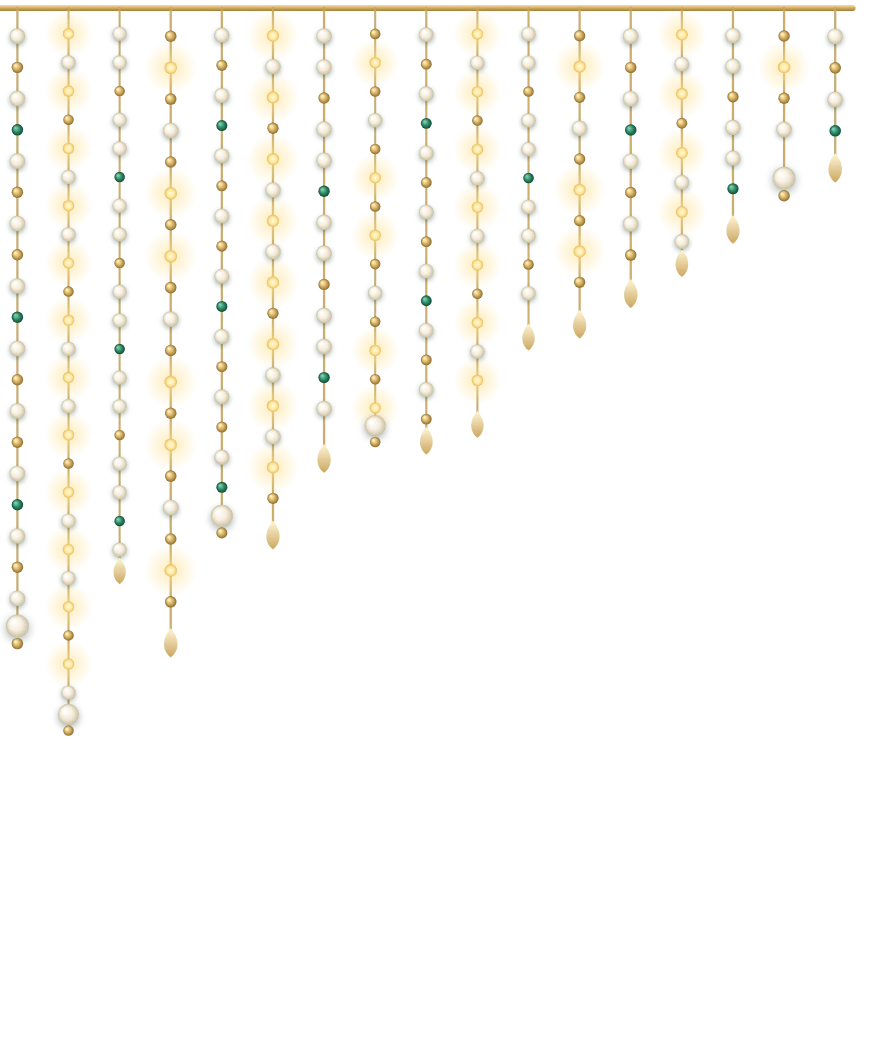
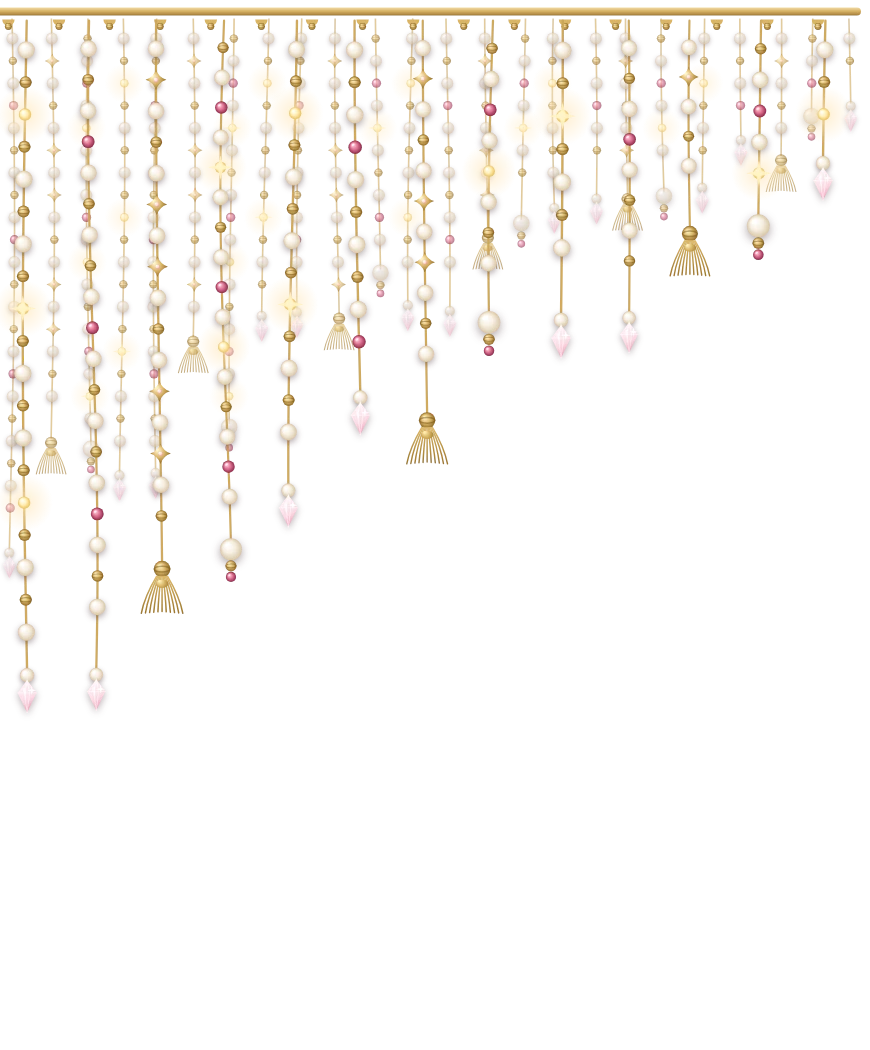
Areeba & Suleman: light pink and white theme
Claude-Session: https://claude.ai/code/session_014mE54nZZVFzgToMktFZNKW

Changed region(s): [[0.0, 0.0, 0.9931, 0.701]]

diff --git a/areeba-suleman/index.html b/areeba-suleman/index.html
@@ -3,7 +3,7 @@
 <head>
 <meta charset="utf-8">
 <meta name="viewport" content="width=device-width, initial-scale=1, viewport-fit=cover">
-<meta name="theme-color" content="#dbe7dd">
+<meta name="theme-color" content="#f8e8ee">
 <link rel="icon" href="favicon.svg" type="image/svg+xml">
 <link rel="apple-touch-icon" href="apple-touch-icon.png">
 <meta property="og:type" content="website">
@@ -23,18 +23,18 @@
   /* Layout: gate screen, then one long scrolling invitation with a floating bar, sections, RSVP and share. */
   :root{
     color-scheme:light;
-    --bg:#dbe7dd;          /* pearly satin */
-    --panel:#f5f9f4;       /* ivory */
-    --panel-2:#ebf2ea;
-    --ink:#0f3d2e;         /* deep maroon, as on the main card */
-    --muted:#4f7766;
-    --line:#c9d6c3;        /* gold-tinted hairlines */
+    --bg:#f8e8ee;          /* pearly satin */
+    --panel:#fffafc;       /* ivory */
+    --panel-2:#fbeef2;
+    --ink:#5d2038;         /* deep maroon, as on the main card */
+    --muted:#a0627a;
+    --line:#ecd2db;        /* gold-tinted hairlines */
     --gold:#b8924f;        /* gold lines and ornaments */
-    --maroon:#1d6a4f;      /* fills */
-    --maroon-hi:#2b8665;
-    --accent:#1b6b4d;      /* maroon accent text */
-    --ivory:#f4faf4;       /* text on maroon */
-    --shadow:rgba(15,60,45,.22);
+    --maroon:#c24e73;      /* fills */
+    --maroon-hi:#d9708f;
+    --accent:#b8456a;      /* maroon accent text */
+    --ivory:#fffafc;       /* text on maroon */
+    --shadow:rgba(120,40,70,.20);
     --serif:'Playfair Display',Georgia,serif;
     --sans:'Poppins',system-ui,sans-serif;
     --script:'Great Vibes','Snell Roundhand',cursive;
@@ -43,7 +43,7 @@
   [hidden]{display:none!important}
   html{scroll-behavior:smooth;-webkit-text-size-adjust:100%}
   body{
-    background:#d6e3d8 url(assets/silk.webp) center/cover fixed;
+    background:#f6e3e9 url(assets/silk.webp) center/cover fixed;
     color:var(--ink);font-family:var(--sans);font-weight:300;line-height:1.6;
     min-height:100vh;min-height:100svh;
     padding-left:env(safe-area-inset-left,0px);padding-right:env(safe-area-inset-right,0px);
@@ -65,7 +65,7 @@
   }
   .btn:hover{background:color-mix(in srgb,var(--maroon) 9%,transparent)}
   .btn:active{transform:scale(.98)}
-  .btn.primary{background:linear-gradient(135deg,#2b8665,var(--maroon));border-color:var(--maroon);color:var(--ivory)}
+  .btn.primary{background:linear-gradient(135deg,#d9708f,var(--maroon));border-color:var(--maroon);color:var(--ivory)}
   .btn.primary:hover{filter:brightness(1.12)}
   .btn.block{width:100%}
 
@@ -82,7 +82,7 @@
 
   .stage{
     position:fixed;inset:0;z-index:50;overflow:auto;display:flex;
-    background:#d6e3d8 url(assets/silk.webp) center/cover no-repeat;
+    background:#f6e3e9 url(assets/silk.webp) center/cover no-repeat;
     padding:max(24px,env(safe-area-inset-top)) max(14px,env(safe-area-inset-right)) max(24px,env(safe-area-inset-bottom)) max(14px,env(safe-area-inset-left));
   }
   .stage.leaving{animation:fade .45s ease forwards}
@@ -91,7 +91,7 @@
   .acts{display:none;gap:10px;flex-wrap:wrap;justify-content:center;width:100%}
   .stage.opening .acts{display:flex}
   .acts .btn.primary{color:var(--ivory)}
-  .acts .btn:not(.primary){background:rgba(245,249,244,.75)}
+  .acts .btn:not(.primary){background:rgba(255,250,252,.78)}
   .acts .btn{color:var(--ink);border-color:var(--gold);flex:1 1 150px;max-width:210px;font-size:.66rem;letter-spacing:.14em;padding:14px 10px;white-space:nowrap}
 
   .doors{position:absolute;inset:0;z-index:2;border:0;border-radius:0;overflow:visible;background:transparent;box-shadow:none}
@@ -99,13 +99,13 @@
   .door{
     position:fixed;top:0;bottom:0;width:50%;
     background:
-      repeating-linear-gradient(90deg,rgba(30,110,80,.12) 0,rgba(255,255,255,.2) 24px,rgba(30,110,80,.12) 48px),
-      linear-gradient(180deg,rgba(255,255,255,.30),rgba(255,255,255,0) 32%,rgba(15,74,54,.14)),
-      linear-gradient(90deg,#d9e8de,#c8dccf);
+      repeating-linear-gradient(90deg,rgba(194,78,115,.10) 0,rgba(255,255,255,.2) 24px,rgba(194,78,115,.10) 48px),
+      linear-gradient(180deg,rgba(255,255,255,.30),rgba(255,255,255,0) 32%,rgba(194,78,115,.12)),
+      linear-gradient(90deg,#fbeaf0,#f3d9e2);
     transition:transform 1.15s cubic-bezier(.65,0,.2,1) .15s;
   }
-  .door.l{left:0;transform-origin:0 50%;box-shadow:16px 0 46px rgba(15,60,45,.30)}
-  .door.r{right:0;transform-origin:100% 50%;box-shadow:-16px 0 46px rgba(15,60,45,.30)}
+  .door.l{left:0;transform-origin:0 50%;box-shadow:16px 0 46px rgba(120,40,70,.22)}
+  .door.r{right:0;transform-origin:100% 50%;box-shadow:-16px 0 46px rgba(120,40,70,.22)}
   .door-content{
     position:absolute;inset:0;z-index:3;display:flex;flex-direction:column;align-items:center;justify-content:center;
     padding:36px 30px;text-align:center;transition:opacity .3s;
@@ -124,7 +124,7 @@
   .stage.opened .doors{visibility:hidden}
 
     position:absolute;inset:0;z-index:1;display:flex;flex-direction:column;align-items:center;justify-content:center;text-align:center;
-    padding:40px 26px;border:1px solid var(--gold);background:linear-gradient(180deg,rgba(20,10,13,.94),rgba(8,5,6,.97));
+    padding:40px 26px;border:1px solid var(--gold);background:linear-gradient(180deg,rgba(255,250,252,.94),rgba(8,5,6,.97));
     visibility:hidden;opacity:0;transition:opacity .7s ease .25s;
   }
   .stage.opening .cover{visibility:visible;opacity:1}
@@ -135,9 +135,9 @@
 
   /* ---------- Main invitation card (ivory, roses, calligraphy) ---------- */
   .cover{
-    --ec:#0f4a36; --ec-soft:#4f7766; --ec-gold:#b8924f;
+    --ec:#7a2a47; --ec-soft:#a0627a; --ec-gold:#b8924f;
     position:absolute;inset:0;z-index:1;container-type:inline-size;overflow:hidden;border-radius:4px;color:var(--ec);
-    background:#d6e3d8 url(assets/silk.webp) center/cover no-repeat;
+    background:#f6e3e9 url(assets/silk.webp) center/cover no-repeat;
     border:1px solid var(--gold);box-shadow:0 20px 60px var(--shadow);
     visibility:hidden;opacity:0;transition:opacity .7s ease .25s;
   }
@@ -276,7 +276,7 @@
   .gallery{display:grid;gap:16px;margin-top:34px}
   .gallery figure{position:relative;margin:0;overflow:hidden;border:1px solid var(--line);border-radius:6px;background:var(--panel)}
   .gallery img{display:block;width:100%;aspect-ratio:4/5;object-fit:cover}
-  .gallery figcaption{position:absolute;inset:auto 0 0 0;padding:46px 16px 18px;font:400 1.35rem var(--serif);color:var(--ivory);background:linear-gradient(180deg,transparent,rgba(8,40,28,.85))}
+  .gallery figcaption{position:absolute;inset:auto 0 0 0;padding:46px 16px 18px;font:400 1.35rem var(--serif);color:var(--ivory);background:linear-gradient(180deg,transparent,rgba(70,20,40,.85))}
   @media (min-width:640px){.gallery{grid-template-columns:repeat(3,1fr)}}
   .ask{position:relative;margin-top:34px;padding:34px 22px 30px;text-align:center;background:linear-gradient(180deg,var(--panel-2),var(--panel));border:1px solid var(--line);border-radius:26px}
   .ask h3{font:400 clamp(1.6rem,7vw,2.1rem)/1.25 var(--serif);text-wrap:balance}
@@ -295,10 +295,10 @@
 
   /* wax seal on the doors */
   .seal{width:112px;height:112px;margin:10px auto 8px;position:relative;display:grid;place-items:center;border-radius:47% 53% 51% 49% / 51% 47% 53% 49%;
-    background:radial-gradient(circle at 34% 28%,#2f9a73,#1d6a4f 56%,#0d3326);
-    box-shadow:inset 0 0 0 3px rgba(255,255,255,.07),inset 0 -7px 12px rgba(0,0,0,.35),0 8px 16px rgba(10,50,35,.4)}
+    background:radial-gradient(circle at 34% 28%,#e386a1,#c24e73 56%,#4a1a2d);
+    box-shadow:inset 0 0 0 3px rgba(255,255,255,.07),inset 0 -7px 12px rgba(0,0,0,.35),0 8px 16px rgba(120,40,70,.35)}
   .seal::before{content:"";position:absolute;inset:11px;border-radius:50%;border:1.5px solid rgba(240,214,150,.75);box-shadow:inset 0 2px 5px rgba(0,0,0,.3)}
-  .seal b{font:400 2.1rem/1 'Satisfy','Snell Roundhand',cursive;color:#f3dfae;text-shadow:0 1px 0 rgba(0,0,0,.4),0 0 6px rgba(255,220,150,.25)}
+  .seal b{font:400 2.1rem/1 'Satisfy','Snell Roundhand',cursive;color:#f6e3b6;text-shadow:0 1px 0 rgba(0,0,0,.4),0 0 6px rgba(255,220,150,.25)}
   .stage.opening .seal{animation:seal-crack .7s ease forwards}
   @keyframes seal-crack{to{transform:scale(1.25) rotate(8deg);opacity:0}}
   /* real roses framing the opening screen */
@@ -318,19 +318,19 @@
   .more{display:none;flex-direction:column;align-items:center;gap:6px;margin-top:2px;text-align:center}
   .stage.flow .more{display:flex;position:sticky;bottom:max(14px,env(safe-area-inset-bottom,0px));z-index:5;padding-bottom:2px}
   .more .go{display:inline-flex;align-items:center;gap:12px;padding:16px 30px;min-height:56px;border-radius:999px;border:1px solid var(--maroon);cursor:pointer;
-    background:linear-gradient(135deg,#2b8665,var(--maroon));color:var(--ivory);font:600 .78rem var(--sans);letter-spacing:.2em;text-transform:uppercase;
-    box-shadow:0 10px 26px rgba(15,74,54,.35);animation:nudge 1.8s ease-in-out infinite}
+    background:linear-gradient(135deg,#d9708f,var(--maroon));color:var(--ivory);font:600 .78rem var(--sans);letter-spacing:.2em;text-transform:uppercase;
+    box-shadow:0 10px 26px rgba(194,78,115,.35);animation:nudge 1.8s ease-in-out infinite}
   .more .go svg{width:18px;height:18px;fill:none;stroke:currentColor;stroke-width:2.2;stroke-linecap:round;stroke-linejoin:round}
-  .more small{font:400 .68rem var(--sans);letter-spacing:.18em;text-transform:uppercase;color:var(--ink);background:rgba(245,249,244,.82);padding:3px 10px;border-radius:999px}
+  .more small{font:400 .68rem var(--sans);letter-spacing:.18em;text-transform:uppercase;color:var(--ink);background:rgba(255,250,252,.85);padding:3px 10px;border-radius:999px}
   @keyframes nudge{0%,100%{transform:translateY(0)}50%{transform:translateY(5px)}}
   /* pink cosmos blossoms mixed into the green rose clusters */
-  .cosm{position:absolute;height:auto;pointer-events:none;z-index:2;filter:drop-shadow(0 2px 4px rgba(10,50,35,.28))}
+  .cosm{position:absolute;height:auto;pointer-events:none;z-index:2;filter:drop-shadow(0 2px 4px rgba(120,40,70,.25))}
   .cosm.a{width:13cqw;top:30cqw;left:5cqw;transform:rotate(-14deg)}
   .cosm.b{width:10cqw;top:9cqw;left:23cqw;transform:rotate(10deg)}
   .cosm.c{width:11cqw;top:33cqw;right:3cqw;transform:rotate(18deg)}
   .cosm.d{width:12cqw;bottom:25cqw;left:2cqw;transform:rotate(-8deg)}
   .cosm.e{display:none}
-  .st-cosm{position:fixed;height:auto;pointer-events:none;z-index:0;filter:drop-shadow(0 2px 4px rgba(10,50,35,.25));transition:opacity .6s}
+  .st-cosm{position:fixed;height:auto;pointer-events:none;z-index:0;filter:drop-shadow(0 2px 4px rgba(120,40,70,.22));transition:opacity .6s}
   .stage.opening .st-cosm{opacity:0}
   .st-cosm.a{width:min(15vw,84px);top:min(21vw,118px);left:min(29vw,160px);transform:rotate(-12deg)}
   .st-cosm.b{width:min(12vw,66px);top:min(9vw,50px);right:min(36vw,200px);transform:rotate(14deg)}
@@ -385,15 +385,15 @@
   .opt label{display:block;text-align:center;padding:18px 12px;border:1px solid var(--line);background:var(--panel);cursor:pointer;transition:background .2s,border-color .2s}
   .opt label b{display:block;font:400 1.15rem var(--serif);color:var(--ink)}
   .opt label span{font-size:.8rem;color:var(--muted)}
-  .opt input:checked+label{background:linear-gradient(135deg,#2b8665,var(--maroon));border-color:var(--maroon)}
+  .opt input:checked+label{background:linear-gradient(135deg,#d9708f,var(--maroon));border-color:var(--maroon)}
   .opt input:checked+label b,.opt input:checked+label span,.cnt input:checked+label{color:var(--ivory)}
   .opt input:focus-visible+label,.cnt input:focus-visible+label{outline:2px solid var(--accent);outline-offset:2px}
   .cnt{display:grid;grid-template-columns:repeat(5,minmax(0,1fr));gap:8px}
   .cnt label{display:grid;place-items:center;height:52px;border:1px solid var(--line);background:var(--panel);cursor:pointer;font:600 1rem var(--sans);transition:background .2s}
-  .cnt input:checked+label{background:linear-gradient(135deg,#2b8665,var(--maroon));border-color:var(--maroon)}
+  .cnt input:checked+label{background:linear-gradient(135deg,#d9708f,var(--maroon));border-color:var(--maroon)}
   textarea.field{min-height:110px;resize:vertical}
   .opt-note{float:right;font-weight:300;letter-spacing:.2em}
-  .err{margin-top:14px;color:#2f9a73;font-size:.9rem;text-align:center}
+  .err{margin-top:14px;color:#e386a1;font-size:.9rem;text-align:center}
   .done{margin-top:34px;padding:30px 22px;border:1px solid var(--gold);background:var(--panel);text-align:center}
   .done h3{font:400 1.7rem var(--serif)}
   .done p{color:var(--muted);margin-top:10px}
@@ -405,7 +405,7 @@
   .share-actions{display:grid;gap:12px;margin-top:24px}
   .status{margin-top:14px;color:var(--muted);font-size:.9rem;min-height:1.4em;overflow-wrap:anywhere}
 
-  footer{margin-top:90px;padding:80px 20px calc(110px + env(safe-area-inset-bottom,0px));text-align:center;background:linear-gradient(180deg,transparent,rgba(29,106,79,.13) 45%)}
+  footer{margin-top:90px;padding:80px 20px calc(110px + env(safe-area-inset-bottom,0px));text-align:center;background:linear-gradient(180deg,transparent,rgba(194,78,115,.12) 45%)}
   footer h2{font:400 clamp(2rem,8vw,2.6rem)/1.2 var(--serif);margin:14px auto 0;max-width:520px;text-wrap:balance}
   footer .fn{font-family:var(--script);font-size:clamp(3rem,13vw,4.4rem);color:var(--accent);margin-top:34px;line-height:1.1}
   .up{margin:34px auto 0;width:58px;height:58px;border-radius:50%;border:1px solid var(--gold);display:grid;place-items:center;color:var(--accent);background:none;cursor:pointer;font-size:1.5rem}
@@ -781,10 +781,10 @@
   var guest='';
   function drawCard(name,imgs){var couple=imgs.couple;
     var W=1080,H=1620,U=W/100,cv=document.createElement('canvas');cv.width=W;cv.height=H;
-    var c=cv.getContext('2d'),RAD=Math.PI/180,INK='#0f4a36',SOFT='#4f7766',GOLD='#b8924f';
+    var c=cv.getContext('2d'),RAD=Math.PI/180,INK='#7a2a47',SOFT='#a0627a',GOLD='#b8924f';
     function px(n){return n*U}
     /* background: pearly satin (same picture as the card) */
-    c.fillStyle='#d6e3d8';c.fillRect(0,0,W,H);
+    c.fillStyle='#f6e3e9';c.fillRect(0,0,W,H);
     c.imageSmoothingEnabled=true;c.imageSmoothingQuality='high';
     if(imgs.silk){var sr=imgs.silk.naturalWidth/imgs.silk.naturalHeight,tr=W/H,sw=imgs.silk.naturalWidth,sh=imgs.silk.naturalHeight,sx=0,sy=0;
       if(sr>tr){sw=sh*tr;sx=(imgs.silk.naturalWidth-sw)/2}else{sh=sw/tr;sy=(imgs.silk.naturalHeight-sh)/2}
@@ -793,7 +793,7 @@
     /* real rose clusters, placed at the same proportions as on the card */
     function put(im,x,y,wu,fromRight,fromBottom){if(!im)return;var w=px(wu),h=w*im.naturalHeight/im.naturalWidth;c.drawImage(im,fromRight?W-w:x,fromBottom?H-h:y,w,h)}
     put(imgs.tl,0,0,40);put(imgs.tr,0,0,40,true);put(imgs.bl,0,0,30,false,true);
-    function bloom(im,wu,x,y,deg){if(!im)return;var w=px(wu),h=w*im.naturalHeight/im.naturalWidth;c.save();c.shadowColor='rgba(10,50,35,.28)';c.shadowBlur=px(1);c.shadowOffsetY=px(.4);c.translate(px(x)+w/2,y+h/2);c.rotate(deg*RAD);c.drawImage(im,-w/2,-h/2,w,h);c.restore()}
+    function bloom(im,wu,x,y,deg){if(!im)return;var w=px(wu),h=w*im.naturalHeight/im.naturalWidth;c.save();c.shadowColor='rgba(120,40,70,.25)';c.shadowBlur=px(1);c.shadowOffsetY=px(.4);c.translate(px(x)+w/2,y+h/2);c.rotate(deg*RAD);c.drawImage(im,-w/2,-h/2,w,h);c.restore()}
 
 
     /* bride and groom (cut-out picture) */
